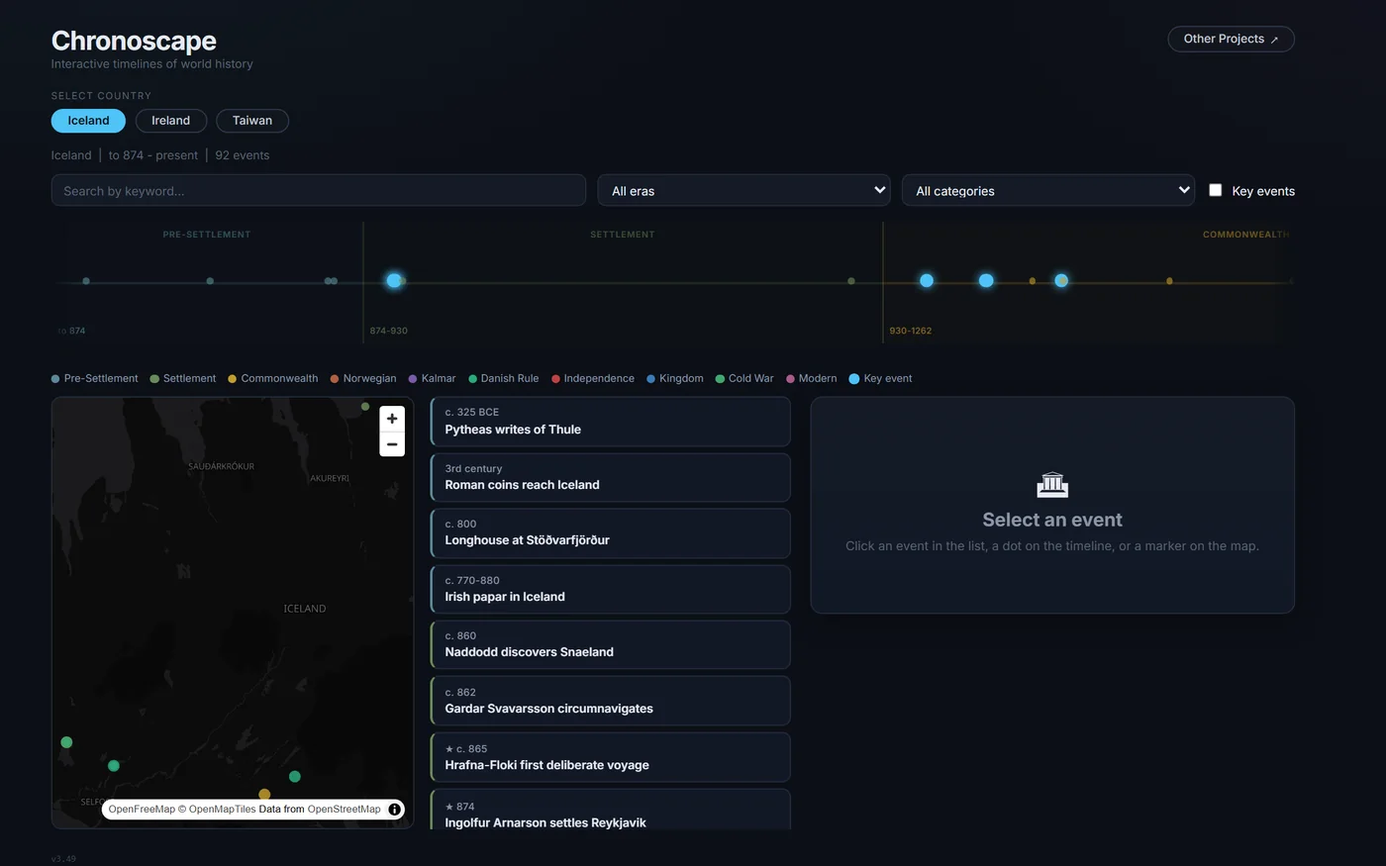
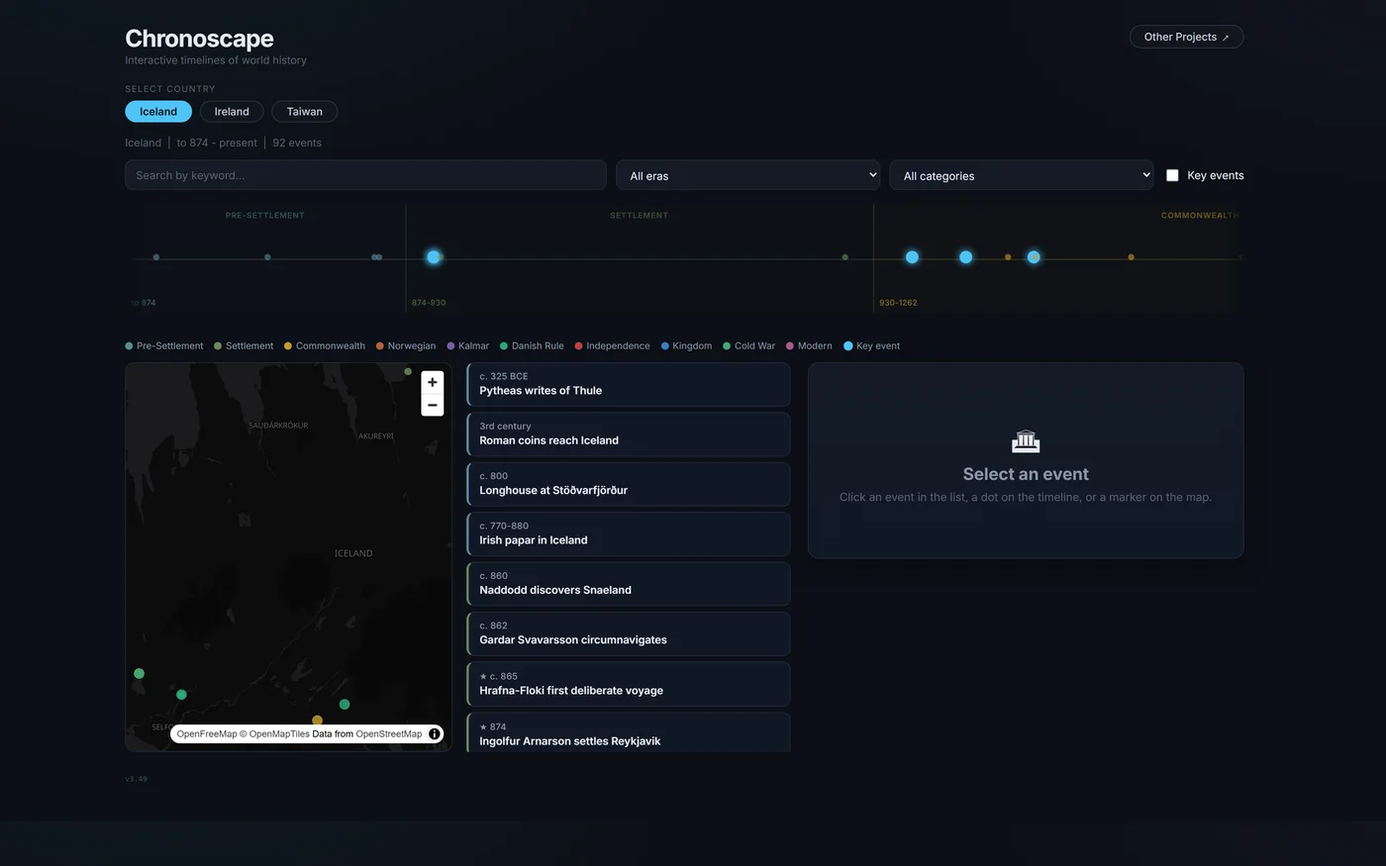
Fit tall pages by widening the frame, and drop the motifs
The zoom approach was wrong and could never have worked: zooming shrinks width and
height by the same factor, so the content's aspect ratio is unchanged and a too-tall
page stays too tall. Three hand-picked values for Lexicon clipped, and so did a
solved one. What actually fits tall content into a 16:10 frame is a WIDER frame -
spend some of the side margin back, up to height x 16/10 - so those pages now get a
wider viewport to spend from. Lexicon shows its stat row and the retention panel;
Chronoscape shows its whole layout.

Measuring the fit needs the UNCLIPPED content bottom, capped at scrollHeight: the
viewport-clipped box can never report a page as too tall, and an inner scrolling
list reports element bottoms far past the document - Chronoscape's event list
measured 6374px against a 1060px page.

Motifs removed from the seven text-only blocks, with the .also-body wrapper they
needed. Charlie's call: they were not carrying their weight.

diff --git a/index.html b/index.html
@@ -98,13 +98,6 @@
   .also-desc { color: var(--soft); font-size: .99rem; max-width: 62ch; margin: 0; }
   .tag { font: 600 10.5px/1 ui-sans-serif, system-ui, sans-serif; letter-spacing: .1em; text-transform: uppercase; padding: .3rem .5rem; border-radius: 4px; white-space: nowrap; color: var(--faint); border: 1px solid var(--rule); }
 
-  /* schematic motif for the projects with no public site - drawn, not screenshotted,
-     so nothing from a Bloomberg-fed or position-holding app is ever published */
-  .also-item { display: grid; grid-template-columns: 1fr 168px; gap: 1.6rem; align-items: start; }
-  /* motif sits on the right, but stays first in the DOM so a screen reader
-     and the no-CSS fallback both hit the heading before the picture */
-  .also-motif { order: 2; background: var(--motif-bg); border: 1px solid var(--rule); border-radius: 6px; aspect-ratio: 16 / 10; overflow: hidden; }
-  .also-motif svg { display: block; width: 100%; height: 100%; }
 
   /* also-built: scannable lead + bullet list */
   .also-lead { color: var(--ink); font-size: 1rem; margin: 0 0 .7rem; max-width: 64ch; }
@@ -118,8 +111,6 @@
     .bar { margin-bottom: 3rem; }
     .proj, .proj:nth-child(even of .proj) { grid-template-columns: 1fr; gap: 1.1rem; }
     .proj:nth-child(even of .proj) .thumb { order: 0; }
-    .also-item { grid-template-columns: 1fr; gap: 1rem; }
-    .also-motif { order: 0; max-width: 220px; }
   }
   @media (prefers-reduced-motion: no-preference) {
     .section-label, .proj { animation: rise .7s cubic-bezier(.2,.7,.3,1) both; }
@@ -202,7 +193,7 @@
   </a>
 
   <a class="proj" href="lexicon/">
-    <div class="thumb"><img src="assets/lexicon.webp" alt="Screenshot of the Lexicon vocabulary review app" loading="lazy" width="912" height="570"></div>
+    <div class="thumb"><img src="assets/lexicon.webp" alt="Screenshot of the Lexicon vocabulary review app" loading="lazy" width="1400" height="875"></div>
     <div class="meta">
       <div class="head"><span class="name">Lexicon</span><span class="status s-live">Live</span></div>
       <p class="desc">A quiet place for words - a spaced-repetition vocabulary tool. Add a word, review what's due, and learn each one both ways: meaning and spelling.</p>
@@ -229,111 +220,90 @@
   </a>
 
   <div class="also-item">
-    <div class="also-motif" role="img" aria-label="Schematic: a five-stage gate narrowing to a single decision"><svg viewBox="0 0 160 100" xmlns="http://www.w3.org/2000/svg"><rect x="20" y="16" width="120" height="8" rx="2" fill="var(--rule)"/><rect x="31" y="30" width="98" height="8" rx="2" fill="var(--rule)"/><rect x="42" y="44" width="76" height="8" rx="2" fill="var(--rule)"/><rect x="53" y="58" width="54" height="8" rx="2" fill="var(--rule)"/><rect x="64" y="72" width="32" height="8" rx="2" fill="var(--accent)"/><circle cx="80" cy="90" r="3.5" fill="var(--accent)"/></svg></div>
-    <div class="also-body">
-      <div class="also-head"><span class="also-name">Lighthouse</span><span class="tag">Personal project</span></div>
-      <p class="also-lead">A personal investment decision system - part analytical workbench, part decision journal.</p>
-      <ul class="also-points">
-        <li>Screens and values a multi-asset universe - equities, macro, FX, crypto, super and CFDs - replacing an Excel workflow</li>
-        <li>Valuation lenses for DCF, fundamentals history, moat and quality, return-potential and drawdown</li>
-        <li>A buy-gate, kill-chain, sell-triggers and prohibitions govern each decision</li>
-        <li>A decision journal of theses, trades, outcomes and reviews, for backtesting the methodology behind them</li>
-        <li>Pure-Python core, a SQLite journal (alembic) with nightly backup, and a Bloomberg + Excel data layer</li>
-      </ul>
-      <p class="also-tech">Bloomberg · Python · Streamlit · SQLite</p>
-    </div>
+    <div class="also-head"><span class="also-name">Lighthouse</span><span class="tag">Personal project</span></div>
+    <p class="also-lead">A personal investment decision system - part analytical workbench, part decision journal.</p>
+    <ul class="also-points">
+      <li>Screens and values a multi-asset universe - equities, macro, FX, crypto, super and CFDs - replacing an Excel workflow</li>
+      <li>Valuation lenses for DCF, fundamentals history, moat and quality, return-potential and drawdown</li>
+      <li>A buy-gate, kill-chain, sell-triggers and prohibitions govern each decision</li>
+      <li>A decision journal of theses, trades, outcomes and reviews, for backtesting the methodology behind them</li>
+      <li>Pure-Python core, a SQLite journal (alembic) with nightly backup, and a Bloomberg + Excel data layer</li>
+    </ul>
+    <p class="also-tech">Bloomberg · Python · Streamlit · SQLite</p>
   </div>
 
   <div class="also-item">
-    <div class="also-motif" role="img" aria-label="Schematic: a price breakout with a stepped trailing stop beneath it"><svg viewBox="0 0 160 100" xmlns="http://www.w3.org/2000/svg"><polyline points="10,80 27,72 44,76 61,58 78,63 95,44 112,49 129,28 146,20" fill="none" stroke="var(--ink)" stroke-width="2" stroke-linejoin="round"/><path d="M10 90 H44 V84 H78 V70 H112 V56 H146" fill="none" stroke="var(--accent)" stroke-width="1.6" stroke-dasharray="4 3"/><circle cx="129" cy="28" r="3.2" fill="var(--accent)"/></svg></div>
-    <div class="also-body">
-      <div class="also-head"><span class="also-name">Parallax</span><span class="tag">Personal project</span></div>
-      <p class="also-lead">A systematic momentum/trend system for equity CFDs.</p>
-      <ul class="also-points">
-        <li>Breakout, compression, pullback and near-high screeners</li>
-        <li>A chart-quant score feeding a 14-gate risk "kill-chain"</li>
-        <li>Regime-aware position sizing, capped for correlation and concentration</li>
-        <li>Structural trailing stops with a break-even ratchet on exits</li>
-        <li>A point-in-time backtest with cost and friction modelling, plus a daily-review loop and decision log</li>
-      </ul>
-      <p class="also-tech">Bloomberg · TradingView · Yahoo · Python · Streamlit · SQLite</p>
-    </div>
+    <div class="also-head"><span class="also-name">Parallax</span><span class="tag">Personal project</span></div>
+    <p class="also-lead">A systematic momentum/trend system for equity CFDs.</p>
+    <ul class="also-points">
+      <li>Breakout, compression, pullback and near-high screeners</li>
+      <li>A chart-quant score feeding a 14-gate risk "kill-chain"</li>
+      <li>Regime-aware position sizing, capped for correlation and concentration</li>
+      <li>Structural trailing stops with a break-even ratchet on exits</li>
+      <li>A point-in-time backtest with cost and friction modelling, plus a daily-review loop and decision log</li>
+    </ul>
+    <p class="also-tech">Bloomberg · TradingView · Yahoo · Python · Streamlit · SQLite</p>
   </div>
 
   <div class="also-item">
-    <div class="also-motif" role="img" aria-label="Schematic: stacked portfolio weights rebalancing across six periods"><svg viewBox="0 0 160 100" xmlns="http://www.w3.org/2000/svg"><rect x="14" y="72" width="14" height="19" rx="1.5" fill="var(--accent)"/><rect x="14" y="46" width="14" height="25" rx="1.5" fill="var(--rule)"/><rect x="14" y="28" width="14" height="17" rx="1.5" fill="var(--faint)"/><rect x="14" y="14" width="14" height="13" rx="1.5" fill="var(--rule)"/><rect x="38" y="68" width="14" height="23" rx="1.5" fill="var(--accent)"/><rect x="38" y="48" width="14" height="19" rx="1.5" fill="var(--rule)"/><rect x="38" y="26" width="14" height="21" rx="1.5" fill="var(--faint)"/><rect x="38" y="14" width="14" height="11" rx="1.5" fill="var(--rule)"/><rect x="62" y="74" width="14" height="17" rx="1.5" fill="var(--accent)"/><rect x="62" y="44" width="14" height="29" rx="1.5" fill="var(--rule)"/><rect x="62" y="28" width="14" height="15" rx="1.5" fill="var(--faint)"/><rect x="62" y="14" width="14" height="13" rx="1.5" fill="var(--rule)"/><rect x="86" y="66" width="14" height="25" rx="1.5" fill="var(--accent)"/><rect x="86" y="48" width="14" height="17" rx="1.5" fill="var(--rule)"/><rect x="86" y="28" width="14" height="19" rx="1.5" fill="var(--faint)"/><rect x="86" y="14" width="14" height="13" rx="1.5" fill="var(--rule)"/><rect x="110" y="70" width="14" height="21" rx="1.5" fill="var(--accent)"/><rect x="110" y="46" width="14" height="23" rx="1.5" fill="var(--rule)"/><rect x="110" y="32" width="14" height="13" rx="1.5" fill="var(--faint)"/><rect x="110" y="14" width="14" height="17" rx="1.5" fill="var(--rule)"/><rect x="134" y="76" width="14" height="15" rx="1.5" fill="var(--accent)"/><rect x="134" y="48" width="14" height="27" rx="1.5" fill="var(--rule)"/><rect x="134" y="28" width="14" height="19" rx="1.5" fill="var(--faint)"/><rect x="134" y="14" width="14" height="13" rx="1.5" fill="var(--rule)"/></svg></div>
-    <div class="also-body">
-      <div class="also-head"><span class="also-name">All-Weather Allocator</span><span class="tag">Personal project</span></div>
-      <p class="also-lead">A risk-parity "all-weather" portfolio allocator.</p>
-      <ul class="also-points">
-        <li>A rolling weight optimiser over a regime model</li>
-        <li>A signal ensemble of yield and drawdown-momentum</li>
-        <li>Sizing against a drawdown budget, with a precomputed contribution schedule</li>
-        <li>A backtest and stats harness, implemented over CFDs</li>
-      </ul>
-      <p class="also-tech">Python · Streamlit</p>
-    </div>
+    <div class="also-head"><span class="also-name">All-Weather Allocator</span><span class="tag">Personal project</span></div>
+    <p class="also-lead">A risk-parity "all-weather" portfolio allocator.</p>
+    <ul class="also-points">
+      <li>A rolling weight optimiser over a regime model</li>
+      <li>A signal ensemble of yield and drawdown-momentum</li>
+      <li>Sizing against a drawdown budget, with a precomputed contribution schedule</li>
+      <li>A backtest and stats harness, implemented over CFDs</li>
+    </ul>
+    <p class="also-tech">Python · Streamlit</p>
   </div>
 
   <div class="also-item">
-    <div class="also-motif" role="img" aria-label="Schematic: a cycle dial with the needle part way round"><svg viewBox="0 0 160 100" xmlns="http://www.w3.org/2000/svg"><path d="M28 80 A 52 52 0 0 1 132 80" fill="none" stroke="var(--rule)" stroke-width="7" stroke-linecap="round"/><path d="M28 80 A 52 52 0 0 1 62 31" fill="none" stroke="var(--accent)" stroke-width="7" stroke-linecap="round"/><line x1="80" y1="80" x2="104" y2="42" stroke="var(--ink)" stroke-width="2.2" stroke-linecap="round"/><circle cx="80" cy="80" r="4" fill="var(--ink)"/></svg></div>
-    <div class="also-body">
-      <div class="also-head"><span class="also-name">BTC Analyser</span><span class="tag">Personal project</span></div>
-      <p class="also-lead">A Bitcoin accumulation model - scores where BTC sits in its cycle and sizes contributions accordingly.</p>
-      <ul class="also-points">
-        <li>On-chain and cycle signals - MVRV-Z, Mayer multiple, Puell, realised-price ratio, 2-year MA and Fear &amp; Greed</li>
-        <li>Blended into a composite score, then gated by a risk kill-chain</li>
-        <li>Leverage- and liquidation-aware contribution sizing</li>
-      </ul>
-      <p class="also-tech">Binance · CoinMetrics · On-chain Data · Python</p>
-    </div>
+    <div class="also-head"><span class="also-name">BTC Analyser</span><span class="tag">Personal project</span></div>
+    <p class="also-lead">A Bitcoin accumulation model - scores where BTC sits in its cycle and sizes contributions accordingly.</p>
+    <ul class="also-points">
+      <li>On-chain and cycle signals - MVRV-Z, Mayer multiple, Puell, realised-price ratio, 2-year MA and Fear &amp; Greed</li>
+      <li>Blended into a composite score, then gated by a risk kill-chain</li>
+      <li>Leverage- and liquidation-aware contribution sizing</li>
+    </ul>
+    <p class="also-tech">Binance · CoinMetrics · On-chain Data · Python</p>
   </div>
 
   <div class="also-item">
-    <div class="also-motif" role="img" aria-label="Schematic: a grid of modules sitting on one shared data layer"><svg viewBox="0 0 160 100" xmlns="http://www.w3.org/2000/svg"><rect x="14" y="12" width="22" height="14" rx="2.5" fill="var(--rule)"/><rect x="41" y="12" width="22" height="14" rx="2.5" fill="var(--rule)"/><rect x="68" y="12" width="22" height="14" rx="2.5" fill="var(--accent)"/><rect x="95" y="12" width="22" height="14" rx="2.5" fill="var(--rule)"/><rect x="122" y="12" width="22" height="14" rx="2.5" fill="var(--rule)"/><rect x="14" y="32" width="22" height="14" rx="2.5" fill="var(--rule)"/><rect x="41" y="32" width="22" height="14" rx="2.5" fill="var(--rule)"/><rect x="68" y="32" width="22" height="14" rx="2.5" fill="var(--rule)"/><rect x="95" y="32" width="22" height="14" rx="2.5" fill="var(--rule)"/><rect x="122" y="32" width="22" height="14" rx="2.5" fill="var(--rule)"/><rect x="14" y="52" width="22" height="14" rx="2.5" fill="var(--rule)"/><rect x="41" y="52" width="22" height="14" rx="2.5" fill="var(--rule)"/><rect x="68" y="52" width="22" height="14" rx="2.5" fill="var(--rule)"/><rect x="95" y="52" width="22" height="14" rx="2.5" fill="var(--rule)"/><rect x="122" y="52" width="22" height="14" rx="2.5" fill="var(--rule)"/><rect x="14" y="80" width="132" height="8" rx="2.5" fill="var(--faint)"/></svg></div>
-    <div class="also-body">
-      <div class="also-head"><span class="also-name">Vantage</span><span class="tag">Personal project</span></div>
-      <p class="also-lead">A packaged Bloomberg-powered markets-analytics desktop app - ~20 modules.</p>
-      <ul class="also-points">
-        <li>Yield-curve and global-rates monitors, rate futures and yield-curve shock</li>
-        <li>Implied-vol and FX-vol surfaces</li>
-        <li>Carry, historical-valuation, analyst-upside, return-potential and value-momentum screens, plus a pairs-trading backtester</li>
-        <li>A Monte-Carlo price simulator, a drawdown analyser, FX forecasts and G20/macro dashboards</li>
-        <li>A cached Bloomberg data layer feeding per-module calc engines, packaged to a standalone Windows app (PyInstaller) with auth/entitlements and a usage meter</li>
-      </ul>
-      <p class="also-tech">Python · Streamlit</p>
-    </div>
+    <div class="also-head"><span class="also-name">Vantage</span><span class="tag">Personal project</span></div>
+    <p class="also-lead">A packaged Bloomberg-powered markets-analytics desktop app - ~20 modules.</p>
+    <ul class="also-points">
+      <li>Yield-curve and global-rates monitors, rate futures and yield-curve shock</li>
+      <li>Implied-vol and FX-vol surfaces</li>
+      <li>Carry, historical-valuation, analyst-upside, return-potential and value-momentum screens, plus a pairs-trading backtester</li>
+      <li>A Monte-Carlo price simulator, a drawdown analyser, FX forecasts and G20/macro dashboards</li>
+      <li>A cached Bloomberg data layer feeding per-module calc engines, packaged to a standalone Windows app (PyInstaller) with auth/entitlements and a usage meter</li>
+    </ul>
+    <p class="also-tech">Python · Streamlit</p>
   </div>
 
   <div class="also-item">
-    <div class="also-motif" role="img" aria-label="Schematic: a hedge ratio inside its tolerance band"><svg viewBox="0 0 160 100" xmlns="http://www.w3.org/2000/svg"><rect x="14" y="30" width="132" height="16" rx="3" fill="var(--rule)"/><rect x="14" y="30" width="92" height="16" rx="3" fill="var(--accent)"/><line x1="84" y1="22" x2="84" y2="54" stroke="var(--faint)" stroke-width="1.4" stroke-dasharray="3 3"/><line x1="120" y1="22" x2="120" y2="54" stroke="var(--faint)" stroke-width="1.4" stroke-dasharray="3 3"/><rect x="14" y="66" width="132" height="6" rx="3" fill="var(--rule)"/><rect x="14" y="66" width="58" height="6" rx="3" fill="var(--faint)"/><rect x="14" y="82" width="132" height="6" rx="3" fill="var(--rule)"/><rect x="14" y="82" width="104" height="6" rx="3" fill="var(--faint)"/></svg></div>
-    <div class="also-body">
-      <div class="also-head"><span class="also-name">Overlay &amp; Hedging Ops</span><span class="tag">Internal tool</span></div>
-      <p class="also-lead">An operations platform for hedging programmes across institutional mandates.</p>
-      <ul class="also-points">
-        <li>Ingests position and rate data from custodian/admin feeds and monitored inboxes</li>
-        <li>Computes daily revaluations and mark-to-market</li>
-        <li>Schedules rollovers and tracks hedge ratios and effectiveness</li>
-        <li>Tracks fund NAV, performance, flows, leverage and risk analytics</li>
-        <li>Reports off an operations dashboard, driven by parsers, a calc engine and scheduled daily/EOD jobs</li>
-      </ul>
-      <p class="also-tech">Python · Streamlit</p>
-    </div>
+    <div class="also-head"><span class="also-name">Overlay &amp; Hedging Ops</span><span class="tag">Internal tool</span></div>
+    <p class="also-lead">An operations platform for hedging programmes across institutional mandates.</p>
+    <ul class="also-points">
+      <li>Ingests position and rate data from custodian/admin feeds and monitored inboxes</li>
+      <li>Computes daily revaluations and mark-to-market</li>
+      <li>Schedules rollovers and tracks hedge ratios and effectiveness</li>
+      <li>Tracks fund NAV, performance, flows, leverage and risk analytics</li>
+      <li>Reports off an operations dashboard, driven by parsers, a calc engine and scheduled daily/EOD jobs</li>
+    </ul>
+    <p class="also-tech">Python · Streamlit</p>
   </div>
 
   <div class="also-item">
-    <div class="also-motif" role="img" aria-label="Schematic: many sources narrowing to a short ranked digest"><svg viewBox="0 0 160 100" xmlns="http://www.w3.org/2000/svg"><circle cx="12" cy="14" r="2.6" fill="var(--faint)"/><circle cx="34" cy="14" r="2.6" fill="var(--faint)"/><circle cx="57" cy="14" r="2.6" fill="var(--faint)"/><circle cx="80" cy="14" r="2.6" fill="var(--faint)"/><circle cx="102" cy="14" r="2.6" fill="var(--faint)"/><circle cx="124" cy="14" r="2.6" fill="var(--faint)"/><circle cx="147" cy="14" r="2.6" fill="var(--faint)"/><circle cx="23" cy="27" r="2.6" fill="var(--faint)"/><circle cx="46" cy="27" r="2.6" fill="var(--faint)"/><circle cx="68" cy="27" r="2.6" fill="var(--faint)"/><circle cx="90" cy="27" r="2.6" fill="var(--faint)"/><circle cx="113" cy="27" r="2.6" fill="var(--faint)"/><circle cx="136" cy="27" r="2.6" fill="var(--faint)"/><circle cx="158" cy="27" r="2.6" fill="var(--faint)"/><path d="M14 44 L80 60 L146 44" fill="none" stroke="var(--rule)" stroke-width="1.6"/><rect x="28" y="68" width="104" height="7" rx="2" fill="var(--accent)"/><rect x="39" y="79" width="82" height="7" rx="2" fill="var(--rule)"/><rect x="50" y="90" width="60" height="7" rx="2" fill="var(--rule)"/></svg></div>
-    <div class="also-body">
-      <div class="also-head"><span class="also-name">Signal Pipelines</span><span class="tag">Internal tool</span></div>
-      <p class="also-lead">Scheduled pipelines that turn public sources into a ranked daily digest.</p>
-      <ul class="also-points">
-        <li>Scrapes public filings and job/ATS feeds</li>
-        <li>Enriches and dedupes records, including PDF body-fetch</li>
-        <li>Scores for relevance against a configurable rule set</li>
-        <li>Pushes a ranked daily digest to Teams</li>
-      </ul>
-      <p class="also-tech">Python</p>
-    </div>
+    <div class="also-head"><span class="also-name">Signal Pipelines</span><span class="tag">Internal tool</span></div>
+    <p class="also-lead">Scheduled pipelines that turn public sources into a ranked daily digest.</p>
+    <ul class="also-points">
+      <li>Scrapes public filings and job/ATS feeds</li>
+      <li>Enriches and dedupes records, including PDF body-fetch</li>
+      <li>Scores for relevance against a configurable rule set</li>
+      <li>Pushes a ranked daily digest to Teams</li>
+    </ul>
+    <p class="also-tech">Python</p>
   </div>
 
   <p class="foot">Sydney, Australia</p>

diff --git a/tools/shoot_thumbnails.py b/tools/shoot_thumbnails.py
@@ -68,11 +68,16 @@ DISMISS = {
 
 # Some pages put more above the fold than fits a 16:10 frame at the width of
 # their content column, so the crop lopped the bottom off. Zooming the page out
-# fits more in without widening the frame back out into the dead margin.
-ZOOM = {
-    "lexicon": 0.60,
-    "chronoscape": 0.72,
-}
+# fits more in without widening the frame back into the dead margin.
+#
+# ZOOMING CANNOT FIX THIS. It shrinks width and height by the same factor, so the
+# content's aspect ratio is unchanged and a too-tall page stays too tall - three
+# hand-picked zoom values for Lexicon all still clipped, and so did a solved one.
+# What actually fits tall content into a 16:10 frame is a WIDER frame: include some
+# of the side margin back, up to height x 16/10. These pages get a wider viewport
+# so there is margin available to spend.
+FIT = ["lexicon", "chronoscape"]
+VIEW_FIT = {"width": 1800, "height": 1150}
 
 # Sites that look better - or are designed - dark. Playwright emulates light by
 # default, so a site that keys off prefers-color-scheme renders in its light theme
@@ -123,13 +128,43 @@ CONTENT_BOX_JS = """() => {
 }"""
 
 
-def crop_16x10(im, x0, y0, w, h_avail):
-    """Crop a 16:10 frame of width w starting at (x0, y0), at 2x scale."""
+# Like CONTENT_BOX_JS but the bottom is NOT clipped to the viewport - the whole
+# point is to find content that falls below the fold. Capped at scrollHeight,
+# because an inner scrolling list reports element bottoms far past the page:
+# Chronoscape's event list measured 6374px against a 1060px document.
+FIT_BOX_JS = """() => {
+  const vw = innerWidth;
+  let x0 = vw, x1 = 0, bottom = 0;
+  document.querySelectorAll('*').forEach(e => {
+    const tag = e.tagName;
+    if (tag === 'SCRIPT' || tag === 'STYLE') return;
+    const hasText = [...e.childNodes].some(c => c.nodeType === 3 && c.textContent.trim());
+    const isVisual = ['IMG', 'SVG', 'CANVAS', 'INPUT', 'SELECT', 'BUTTON'].includes(tag);
+    if (!hasText && !isVisual) return;
+    const r = e.getBoundingClientRect();
+    if (r.width < 2 || r.height < 2) return;
+    if (r.right < 0 || r.left > vw) return;
+    x0 = Math.min(x0, Math.max(0, r.left));
+    x1 = Math.max(x1, Math.min(vw, r.right));
+    bottom = Math.max(bottom, r.bottom);
+  });
+  return {width: x1 - x0, height: Math.min(bottom, document.documentElement.scrollHeight)};
+}"""
+
+
+def content_height(page):
+    """How far the content really reaches, ignoring the fold."""
+    box = page.evaluate(FIT_BOX_JS)
+    return (box or {}).get("height") or 0
+
+
+def crop_16x10(im, x0, y0, w, h_avail, scale=SCALE):
+    """Crop a 16:10 frame of width w starting at (x0, y0), in CSS pixels."""
     h = min(w * 10 / 16, h_avail)
-    return im.crop(tuple(round(v * SCALE) for v in (x0, y0, x0 + w, y0 + h)))
+    return im.crop(tuple(round(v * scale) for v in (x0, y0, x0 + w, y0 + h)))
 
 
-def framed(page, slug, raw):
+def framed(page, slug, raw, scale=SCALE):
     """Return the cropped 16:10 image for one site."""
     if slug in ANCHOR:
         cfg = ANCHOR[slug]
@@ -151,20 +186,33 @@ def framed(page, slug, raw):
         # Start the frame above the element so the card keeps some page chrome.
         y0 = max(0, min(box["y"] - h * cfg.get("context_above", 0),
                         VIEW["height"] - h))
-        return crop_16x10(im, x0, y0, w, VIEW["height"] - y0)
+        return crop_16x10(im, x0, y0, w, VIEW["height"] - y0, scale)
 
     page.screenshot(path=str(raw))
     im = Image.open(raw).convert("RGB")
     box = page.evaluate(CONTENT_BOX_JS)
     if not box:
-        return crop_16x10(im, 0, 0, VIEW["width"], VIEW["height"])
+        return crop_16x10(im, 0, 0, VIEW["width"], VIEW["height"], scale)
 
+    view = VIEW_FIT if slug in FIT else VIEW
     pad = (box["x1"] - box["x0"]) * MARGIN_FRAC
     x0 = max(0, box["x0"] - pad)
-    x1 = min(VIEW["width"], box["x1"] + pad)
+    x1 = min(view["width"], box["x1"] + pad)
+
+    if slug in FIT:
+        # Widen the frame until the content's real height fits inside it, spending
+        # the side margin rather than shrinking the page. Centred on the content so
+        # the extra space is taken evenly from both sides.
+        need = (content_height(page) - box["y0"]) * 16 / 10
+        if need > x1 - x0:
+            mid = (x0 + x1) / 2
+            half = min(need, view["width"]) / 2
+            x0 = max(0, min(mid - half, view["width"] - min(need, view["width"])))
+            x1 = min(view["width"], x0 + min(need, view["width"]))
+
     # Only a little of the top margin is kept - it is nearly always dead space.
     y0 = max(0, box["y0"] - pad / 2)
-    return crop_16x10(im, x0, y0, x1 - x0, VIEW["height"] - y0)
+    return crop_16x10(im, x0, y0, x1 - x0, view["height"] - y0, scale)
 
 
 def changed_enough(new, dest):
@@ -196,9 +244,14 @@ def main():
 
     with sync_playwright() as p:
         browser = p.chromium.launch()
-        ctx = browser.new_context(viewport=VIEW, device_scale_factor=SCALE)
-        page = ctx.new_page()
+        # A context per site: zooming a page out shrinks its content box in CSS
+        # pixels, so a fixed 2x shot of a zoomed page lands well under the width a
+        # retina card needs. FIT sites get a higher device scale to cancel that.
         for slug in slugs:
+            scale = SCALE
+            ctx = browser.new_context(viewport=VIEW_FIT if slug in FIT else VIEW,
+                                      device_scale_factor=scale)
+            page = ctx.new_page()
             page.emulate_media(color_scheme=SCHEME.get(slug, "light"))
             try:
                 page.goto(SITES[slug], wait_until="networkidle", timeout=60000)
@@ -216,11 +269,8 @@ def main():
                 except Exception:                    # noqa: BLE001
                     pass                             # the modal may not have shown
 
-            if slug in ZOOM:
-                page.evaluate("z => document.documentElement.style.zoom = z", ZOOM[slug])
-                page.wait_for_timeout(500)           # let reflow settle before measuring
 
-            im = framed(page, slug, tmp / f"{slug}.png")
+            im = framed(page, slug, tmp / f"{slug}.png", scale)
             if im.width > TARGET_W:
                 im = im.resize((TARGET_W, round(im.height * TARGET_W / im.width)),
                                Image.LANCZOS)
